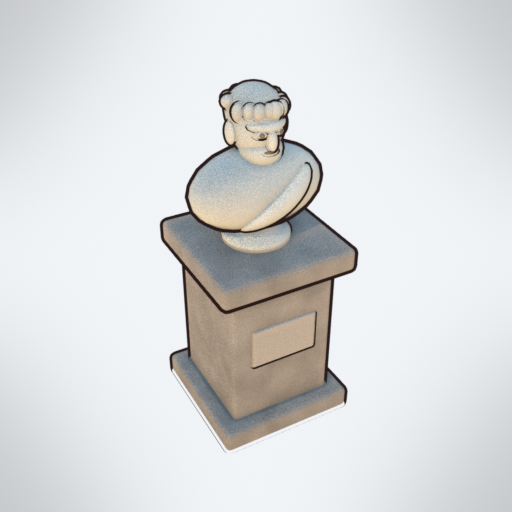
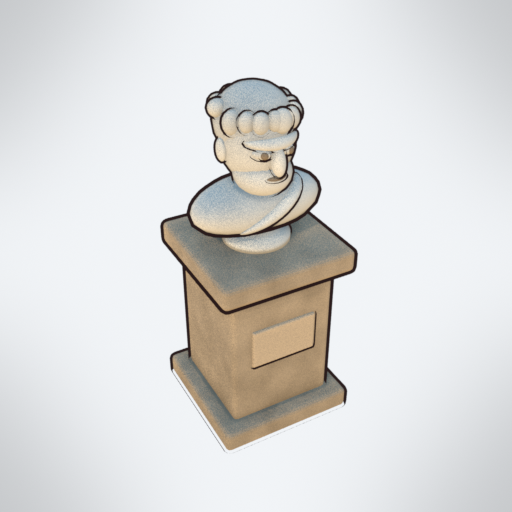
warm_top: stronger tint (stone tops read as sand); wall_stone thumb re-rendered
Claude-Session: https://claude.ai/code/session_013w7Vyd24Fyt9tqdhFprxbt

diff --git a/library/props/emperor_bust/build.py b/library/props/emperor_bust/build.py
@@ -1,9 +1,10 @@
 """3D marble bust of a generic (non-portrait) Roman emperor on a tall square stone pedestal.
 Origin = centre of the bottom of the pedestal; face looks toward -Y.  Pedestal 1.2 high, total about 2.1.
 Parts: pedestal (group: plinth, shaft, cap), plaque (blank front plate), bust (group: socle, chest, drape,
-neck, head), head (group pivoting at the neck, z=1.72: skull, jaw, hair, nose, ears, brow, eyes, mouth, beard),
+neck, head), head (group pivoting at the neck, z=1.58: skull, jaw, hair, nose, ears, brow, eyes, mouth, beard),
 hair, nose, beard (only when beard='full': ONE mesh '<name>_beard' with its origin at the chin so a story can
 scale it 0 -> 1 for a 'beard pops out' gag).
+The head is cartoon-large (x1.4, baked into the meshes, object scales stay 1).
 seed varies hair style (3 lock patterns), hairline, nose, ears, brow and head width so a row of busts differs.
 Marble is warm ivory on purpose: the blue sky gradient tints upward faces, neutral white turns grey-blue."""
 import math
@@ -14,10 +15,12 @@ from core.look import ramp_mat, pbr
 from core.geo import group3d, attach, rbox, lathe, cyl, sphere
 
 DEFAULTS = dict(beard="none", seed=1, eyes="drilled", plaque=True,
-                marble_color=[0.90, 0.76, 0.56], pedestal_color=[0.50, 0.38, 0.27],
+                marble_color=[0.90, 0.76, 0.56], pedestal_color=[0.56, 0.39, 0.23],
                 pupil_color=[0.36, 0.25, 0.15])
 
-HZ = 1.72          # head pivot (top of neck)
+HZ = 1.72          # neck pivot in the head design coordinates
+HP = 1.58          # real neck pivot height
+HS = 1.4           # head enlargement (baked into the meshes)
 
 
 def _clamp(c, k):
@@ -70,7 +73,7 @@ def _add_balls(o, balls, segs=(12, 8)):
 
 
 def _to_head(o, head):
-    """re-parent a part built in world coordinates under the head group (pivot at z=HZ)"""
+    """re-parent a part built in head design coordinates under the head group (pivot at z=HZ)"""
     o.location = (o.location[0], o.location[1], o.location[2] - HZ)
     o.parent = head
     return o
@@ -109,20 +112,21 @@ def build(params, lib):
     socle = lathe(f"{name}_socle", (0, 0, 0),
                   [(0.0, 1.2), (0.20, 1.2), (0.20, 1.235), (0.16, 1.26), (0.11, 1.30), (0.13, 1.32), (0.0, 1.335)],
                   m_marble, segments=40)
-    CH = (0.0, 0.0, 1.52); CR = (0.40, 0.22, 0.24)
+    CH = (0.0, 0.0, 1.43); CR = (0.40, 0.20, 0.17)          # broad, shallow shoulders
     chest = _ell(f"{name}_chest", CH, CR, m_marble)
     zcut = 1.33 - CH[2]
     for v in chest.data.vertices:            # flat bottom like a real bust
         if v.co.z < zcut: v.co.z = zcut
     chest.data.update()
     chest_front = _ell_front(CH[0], CH[1], CH[2], *CR)
-    drape = _ell(f"{name}_drape", (0.04, 0.0, 1.50), (0.26, 0.04, 0.065), m_marble, rot=(0, math.radians(-35), 0))
-    _hug(drape, chest_front, out=0.015, fallback=0.0)
-    neck = cyl(f"{name}_neck", (0, 0, 1.70), 0.085, 0.20, m_marble, verts=28)
+    # thin diagonal toga fold lying on the chest
+    drape = _ell(f"{name}_drape", (0.03, 0.0, 1.45), (0.24, 0.03, 0.035), m_marble, rot=(0, math.radians(-28), 0))
+    _hug(drape, chest_front, out=0.004, fallback=-0.12)
+    neck = cyl(f"{name}_neck", (0, 0, 1.56), 0.10, 0.18, m_marble, verts=28)
     attach(bust, socle, chest, drape, neck)
 
     # ---------------- head (group pivots at the neck) ----------------
-    head = group3d(f"{name}_head", (0, 0, HZ)); attach(bust, head)
+    head = group3d(f"{name}_head", (0, 0, HP)); attach(bust, head)
     hw = rng.uniform(0.97, 1.03)
     HC = (0.0, 0.0, 1.90); HR = (0.15 * hw, 0.165, 0.19)
     JC = (0.0, -0.05, 1.77); JR = (0.12 * hw, 0.12, 0.09)
@@ -160,7 +164,6 @@ def build(params, lib):
         x = (HR[0] * s + 0.008) * math.sin(a); y = -(HR[1] * s + 0.008) * math.cos(a)
         k = rng.uniform(0.9, 1.12)
         balls.append(((x, y - hy, z - hcz), (rr[0] * k, rr[1] * k, rr[2] * k)))
-    # a few locks on the crown and the back so the silhouette is not a plain egg
     for a in (110, 150, 180, 210, 250):
         a = math.radians(a + rng.uniform(-10, 10))
         z = hcz + 0.05 + rng.uniform(-0.02, 0.02)
@@ -173,15 +176,14 @@ def build(params, lib):
     nl = rng.uniform(0.85, 1.2); nw = rng.uniform(0.9, 1.15)
     nose = _ell(f"{name}_nose", (0, -0.168, 1.862), (0.028 * nw, 0.04 * nl, 0.062), m_marble,
                 rot=(math.radians(-12), 0, 0))
-    # ears
-    es = rng.uniform(0.85, 1.15)
-    ear_l = _ell(f"{name}_ear_l", (0.152 * hw + 0.006, 0.0, 1.868), (0.022, 0.042 * es, 0.06 * es), m_marble)
-    ear_r = _ell(f"{name}_ear_r", (-0.152 * hw - 0.006, 0.0, 1.868), (0.022, 0.042 * es, 0.06 * es), m_marble)
+    # ears (small, close to the head)
+    es = rng.uniform(0.85, 1.1)
+    ear_l = _ell(f"{name}_ear_l", (0.150 * hw, 0.005, 1.87), (0.018, 0.032 * es, 0.046 * es), m_marble)
+    ear_r = _ell(f"{name}_ear_r", (-0.150 * hw, 0.005, 1.87), (0.018, 0.032 * es, 0.046 * es), m_marble)
     # brow ridge bent around the face
     bz = 1.928 + rng.uniform(-0.008, 0.008)
     brow = _ell(f"{name}_brow", (0, 0, bz), (0.115 * hw, 0.022, 0.022), m_marble)
     _hug(brow, face_front, out=0.008, fallback=-0.12)
-    # eyelids + optional drilled pupils
     parts_face = [brow]
     for sx, side in ((1, "l"), (-1, "r")):
         ex = 0.058 * hw * sx
@@ -192,7 +194,6 @@ def build(params, lib):
             pu = _ell(f"{name}_pupil_{side}", (ex, 0, 1.893), (0.013, 0.008, 0.015), m_dark)
             _hug(pu, face_front, out=0.017, fallback=-0.15)
             parts_face.append(pu)
-    # mouth (a short dark line on the face; the beard leaves a window for it)
     mouth = _ell(f"{name}_mouth", (0, 0, 1.79), (0.042, 0.008, 0.009), m_dark)
     _hug(mouth, face_front, out=0.002, fallback=-0.16)
     parts_face.append(mouth)
@@ -206,8 +207,7 @@ def build(params, lib):
         bc = (0.0, -0.06, 1.765); br = (0.17 * hw, 0.14, 0.115)
         bo = _ell(f"{name}_beard", chin, br, m_hair)
         bo.data.transform(Matrix.Translation((bc[0] - chin[0], bc[1] - chin[1], bc[2] - chin[2])))
-        # window for the mouth: pull front vertices near the lips back behind the face
-        for v in bo.data.vertices:
+        for v in bo.data.vertices:           # window for the mouth
             xw = chin[0] + v.co.x; yw = chin[1] + v.co.y; zw = chin[2] + v.co.z
             wx = min(1.0, max(0.0, (0.07 - abs(xw)) / 0.03))
             wz = min(1.0, max(0.0, (zw - 1.765) / 0.025))
@@ -227,5 +227,12 @@ def build(params, lib):
             curls.append(((x - chin[0], y - chin[1], z - chin[2]), (r, r * 0.85, r)))
         _add_balls(bo, curls)
         _to_head(bo, head)
+
+    # ---------------- enlarge the head (baked: object scales stay 1, origins scale with it) ----------------
+    S = Matrix.Scale(HS, 4)
+    for o in list(head.children):
+        o.data.transform(S)
+        o.data.update()
+        o.location = Vector(o.location) * HS
 
     return root

diff --git a/core/look.py b/core/look.py
@@ -39,7 +39,7 @@ def pbr(name, rgb, rough=0.8, metal=0.0):
     return m
 
 
-def warm_top(m, tint=(1.22, 1.0, 0.68)):
+def warm_top(m, tint=(1.34, 1.0, 0.58)):
     """cancel the blue sky tint on faces that look up (stone tops, table tops, bread): multiply the base colour by a warm
     tint weighted by the world normal's Z. Works on pbr/ramp_mat materials; safe to call twice. Shorts never call it."""
     if m is None or not m.use_nodes or m.get("warm_top"): return m
